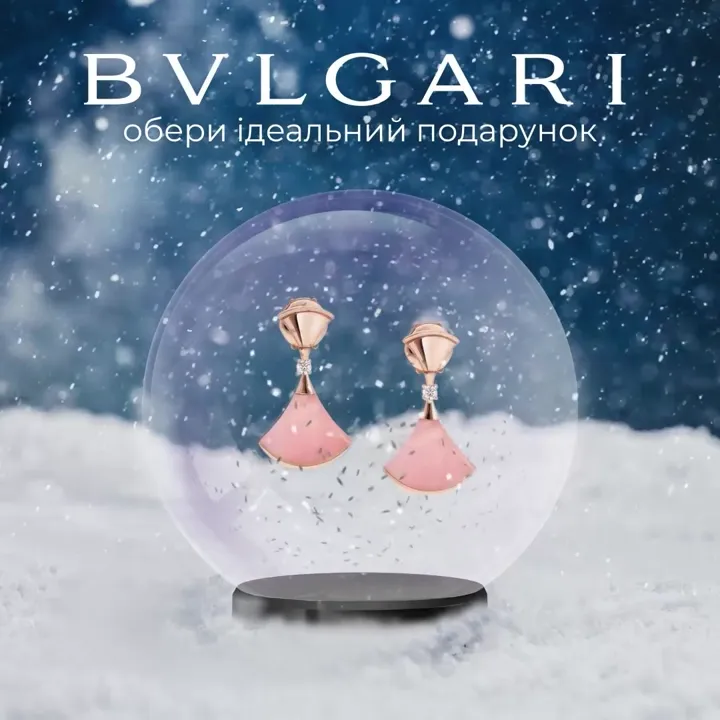
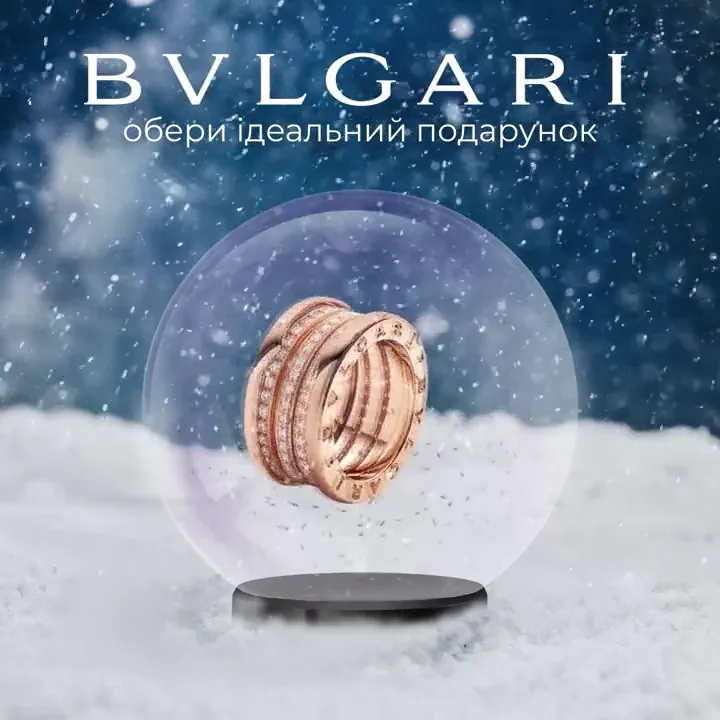
Selected work: Foxy's 11 picks with better poster frames
Claude-Session: https://claude.ai/code/session_014c81hSyvVpABtDAuK3GFx9

diff --git a/works.js b/works.js
@@ -100,7 +100,7 @@ const SECTIONS = [
 ];
 
 // Shown on the home page under "Selected work".
-const FEATURED = ["40_bvlgari_ring", "10_gazer_tv-ui", "12_montblanc_cube", "63_igaming_chicken-road", "42_montblanc_pen", "41_montblanc_collection", "05_taimi_mobile-3d-phone", "16_3d_node-motion"];
+const FEATURED = ["40_bvlgari_ring", "09_taimi_logo-3d", "62_igaming_olymp-static", "53_explainer_google-ads", "42_montblanc_pen", "63_igaming_chicken-road", "08_taimi_ai-visual", "11_bvlgari_snow-globe", "41_montblanc_collection", "01_taimi_couple-knees", "66_igaming_olympus-it"];
 
 // Cover video for each direction card on the home page.
 const COVERS = { brand: "cover_brand", product: "cover_product", explainers: "cover_explainers", igaming: "cover_igaming", "3d": "cover_3d" }; // cover_* = 4:5 loops cut for the home cards

diff --git a/index.html b/index.html
@@ -122,7 +122,7 @@
   <p class="foot">© 2026 Yevheniia Yashna · designed and built with AI</p>
 </footer>
 <dialog id="player"><button class="close" aria-label="Close">×</button><div class="media"></div><div class="case"></div></dialog>
-<script src="works.js?v=cd892b7c"></script>
+<script src="works.js?v=5ff25d37"></script>
 <script src="main.js?v=be99f662"></script>
 <script src="bg.js?v=5798f34a"></script>
 </body>

diff --git a/3d.html b/3d.html
@@ -41,7 +41,7 @@
   <p class="foot">© 2026 Yevheniia Yashna · designed and built with AI</p>
 </footer>
 <dialog id="player"><button class="close" aria-label="Close">×</button><div class="media"></div><div class="case"></div></dialog>
-<script src="works.js?v=cd892b7c"></script>
+<script src="works.js?v=5ff25d37"></script>
 <script src="main.js?v=be99f662"></script>
 <script src="bg.js?v=5798f34a"></script>
 </body>

diff --git a/automation.html b/automation.html
@@ -54,7 +54,7 @@
   <p class="foot">© 2026 Yevheniia Yashna · designed and built with AI</p>
 </footer>
 <dialog id="player"><button class="close" aria-label="Close">×</button><div class="media"></div><div class="case"></div></dialog>
-<script src="works.js?v=cd892b7c"></script>
+<script src="works.js?v=5ff25d37"></script>
 <script src="main.js?v=be99f662"></script>
 <script src="bg.js?v=5798f34a"></script>
 </body>

diff --git a/brand.html b/brand.html
@@ -41,7 +41,7 @@
   <p class="foot">© 2026 Yevheniia Yashna · designed and built with AI</p>
 </footer>
 <dialog id="player"><button class="close" aria-label="Close">×</button><div class="media"></div><div class="case"></div></dialog>
-<script src="works.js?v=cd892b7c"></script>
+<script src="works.js?v=5ff25d37"></script>
 <script src="main.js?v=be99f662"></script>
 <script src="bg.js?v=5798f34a"></script>
 </body>

diff --git a/explainers.html b/explainers.html
@@ -41,7 +41,7 @@
   <p class="foot">© 2026 Yevheniia Yashna · designed and built with AI</p>
 </footer>
 <dialog id="player"><button class="close" aria-label="Close">×</button><div class="media"></div><div class="case"></div></dialog>
-<script src="works.js?v=cd892b7c"></script>
+<script src="works.js?v=5ff25d37"></script>
 <script src="main.js?v=be99f662"></script>
 <script src="bg.js?v=5798f34a"></script>
 </body>

diff --git a/igaming.html b/igaming.html
@@ -41,7 +41,7 @@
   <p class="foot">© 2026 Yevheniia Yashna · designed and built with AI</p>
 </footer>
 <dialog id="player"><button class="close" aria-label="Close">×</button><div class="media"></div><div class="case"></div></dialog>
-<script src="works.js?v=cd892b7c"></script>
+<script src="works.js?v=5ff25d37"></script>
 <script src="main.js?v=be99f662"></script>
 <script src="bg.js?v=5798f34a"></script>
 </body>

diff --git a/product.html b/product.html
@@ -41,7 +41,7 @@
   <p class="foot">© 2026 Yevheniia Yashna · designed and built with AI</p>
 </footer>
 <dialog id="player"><button class="close" aria-label="Close">×</button><div class="media"></div><div class="case"></div></dialog>
-<script src="works.js?v=cd892b7c"></script>
+<script src="works.js?v=5ff25d37"></script>
 <script src="main.js?v=be99f662"></script>
 <script src="bg.js?v=5798f34a"></script>
 </body>
